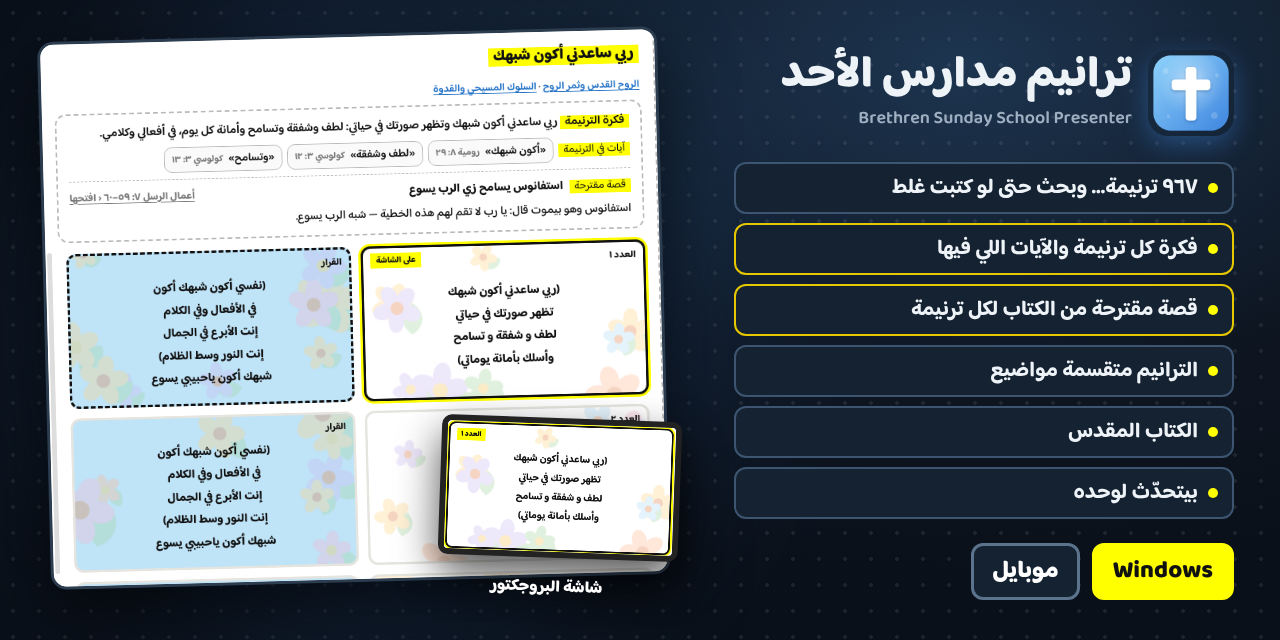
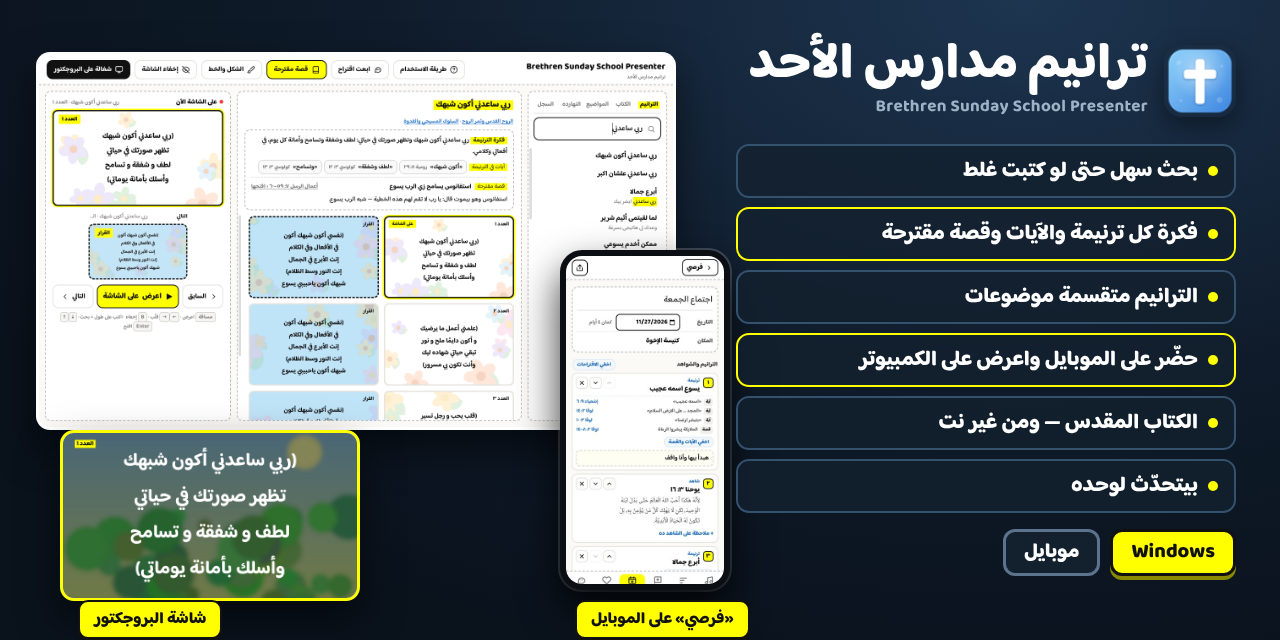
New link preview: desktop + projector with a picture + «فرصي» on the phone, no counts (preview.png?v=6); sw v27
Claude-Session: https://claude.ai/code/session_01VVk9DJVwhkfFSPHHC3nTY2

diff --git a/index.html b/index.html
@@ -8,12 +8,12 @@
 <meta property="og:type" content="website">
 <meta property="og:title" content="Brethren Sunday School Presenter - ترانيم مدارس الأحد">
 <meta property="og:description" content="برنامج لعرض ترانيم مدارس الأحد والكتاب المقدس على البروجكتور — نزّل آخر نسخة لويندوز">
-<meta property="og:image" content="https://brethrensundayschoolpresenter.github.io/preview.png?v=5">
+<meta property="og:image" content="https://brethrensundayschoolpresenter.github.io/preview.png?v=6">
 <meta property="og:image:width" content="1280">
 <meta property="og:image:height" content="640">
 <meta property="og:url" content="https://brethrensundayschoolpresenter.github.io/">
 <meta name="twitter:card" content="summary_large_image">
-<meta name="twitter:image" content="https://brethrensundayschoolpresenter.github.io/preview.png?v=5">
+<meta name="twitter:image" content="https://brethrensundayschoolpresenter.github.io/preview.png?v=6">
 <link rel="icon" href="icon.png">
 <style>
 @font-face{font-family:B;src:url(fonts/BalooBhaijaan2-VF.ttf);font-weight:400 800;font-display:swap}

diff --git a/app/index.html b/app/index.html
@@ -12,7 +12,7 @@
 <meta name="apple-mobile-web-app-status-bar-style" content="default">
 <meta property="og:title" content="Brethren Sunday School Presenter - ترانيم مدارس الأحد">
 <meta property="og:description" content="كل الترانيم بفكرتها وآياتها وقصصها، والكتاب المقدس، على الموبايل ومن غير نت">
-<meta property="og:image" content="https://brethrensundayschoolpresenter.github.io/preview.png?v=5">
+<meta property="og:image" content="https://brethrensundayschoolpresenter.github.io/preview.png?v=6">
 <link rel="preload" href="../fonts/BalooBhaijaan2-VF.ttf" as="font" type="font/ttf" crossorigin>
 <link rel="manifest" href="manifest.webmanifest">
 <link rel="icon" href="icon-192.png">

diff --git a/app/sw.js b/app/sw.js
@@ -1,6 +1,6 @@
 // ترانيم مدارس الأحد — offline: app files network-first (so fixes arrive), hymn/Bible data cache-first
 // (new hymn data is written into the 'ssw-data' cache by app.js after checking content.json on GitHub)
-const SHELL = 'ssw-shell-v26';
+const SHELL = 'ssw-shell-v27';
 const FILES = ['./', 'index.html', 'app.js', 'engine.js', 'books.js', 'manifest.webmanifest', 'icon-192.png', 'icon-512.png', 'apple-touch-icon.png', '../fonts/BalooBhaijaan2-VF.ttf', '../fonts/NotoNaskh.ttf'];
 const DATA = ['data/hymns.js', 'data/topics.js', 'data/stories.js', 'data/bible.js'];
 self.addEventListener('install', e => {
